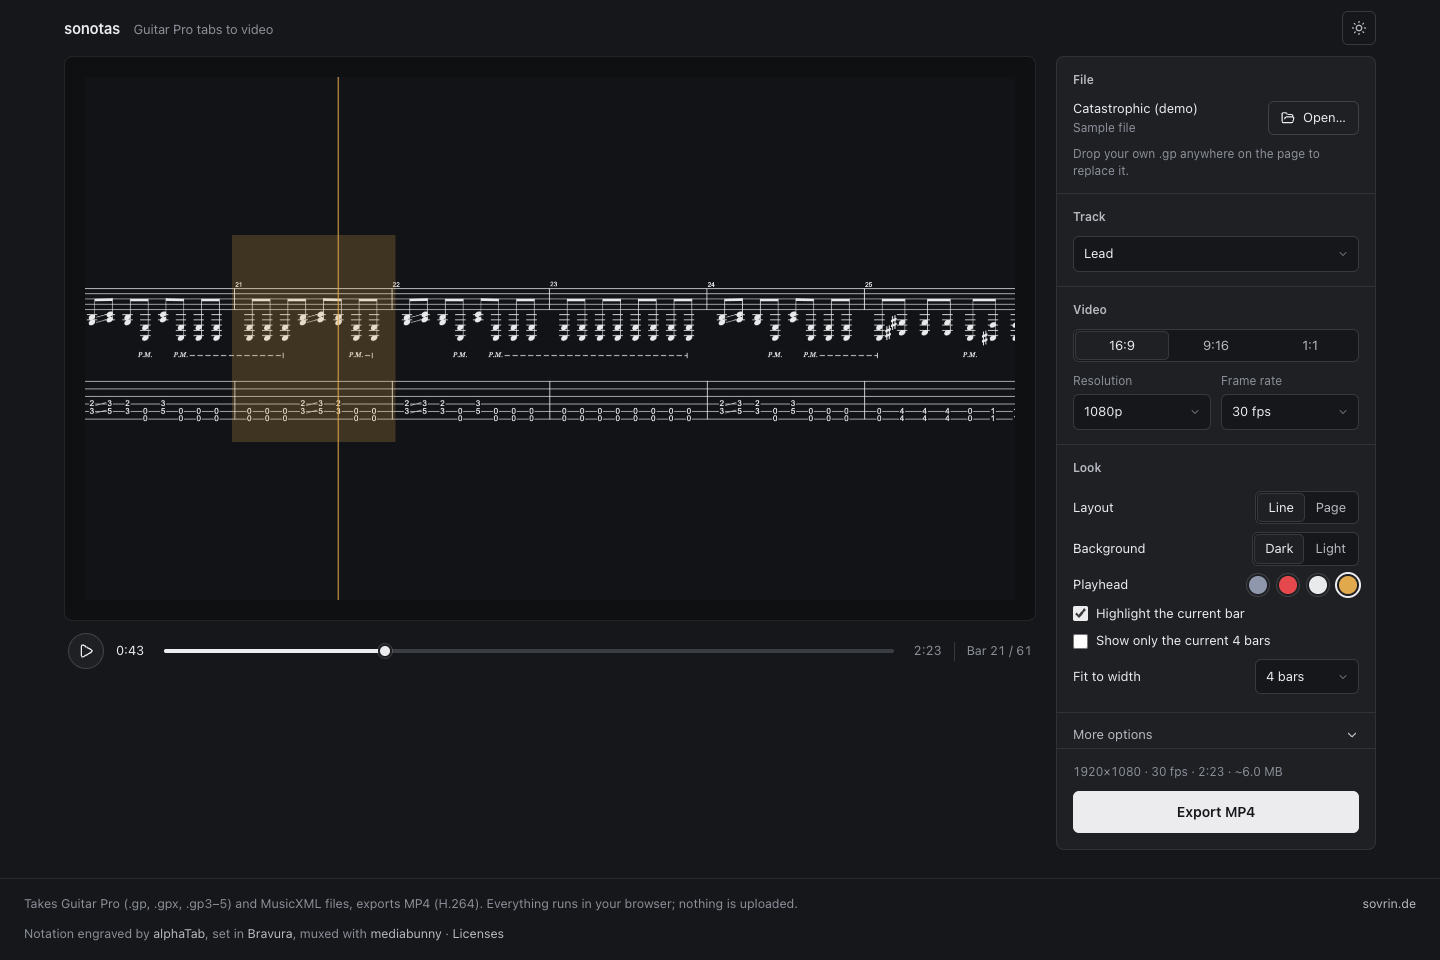
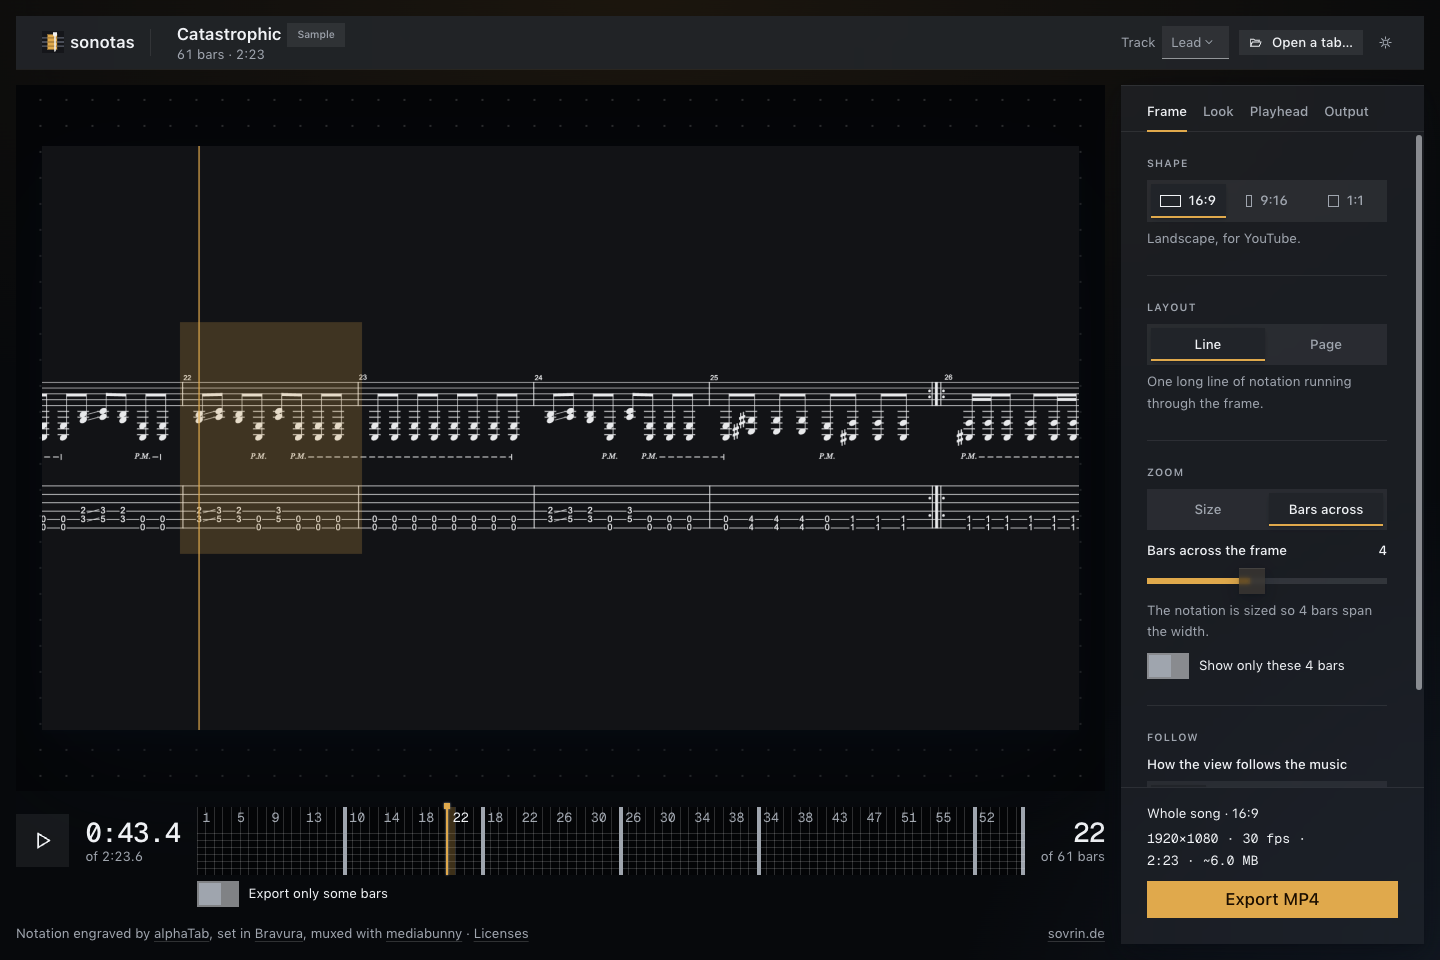
docs: new screenshots, README and notices for the aequitas UI
- retake both README screenshots on the current editor
- README: aequitas instead of Nuxt UI, Look tab, play-order timeline and
  Space / I / O keys
- third-party notices: drop Nuxt UI, add aequitas and Geist

diff --git a/README.md b/README.md
@@ -29,7 +29,9 @@ entirely on your machine, so nothing gets uploaded.
   height and offset. Bar highlight and current-note recolouring.
 - **Extras:** export a range of bars, change the playback speed from 0.25× to 2×, and
   toggle the song title, track name, tempo marking, bar numbers and chord diagrams.
-- **Live preview:** scrub and play the exact frames that end up in the video.
+- **Live preview:** scrub and play the exact frames that end up in the video. The
+  timeline shows the song in play order, repeats included; Space plays and pauses,
+  and I and O set the first and last exported bar at the playhead.
 
 ## Built on alphaTab
 
@@ -41,15 +43,16 @@ moves the playhead. sonotas adds the camera, the styling and the encoder around
 it. alphaTab is licensed under the MPL-2.0; if it is useful to you, star the
 repo or [contribute](https://github.com/CoderLine/alphaTab/blob/develop/CONTRIBUTING.md).
 Exports carry alphaTab's own "rendered by alphaTab" line unless you turn it off
-under *More options*.
+in the *Look* tab.
 
 ## How it works
 
-The app is a [Nuxt](https://nuxt.com) + [Nuxt UI](https://ui.nuxt.com) front end
-over a small, browser-only renderer package:
+The app is a [Nuxt](https://nuxt.com) front end, styled with
+[aequitas](https://github.com/sovrin/aequitas), over a small, browser-only
+renderer package:
 
 ```
-app/                  Nuxt UI: preview stage, transport, settings and export panels
+app/                  Nuxt app: preview stage, timeline, settings tabs and export panel
 packages/renderer/    Guitar Pro → video engine
   score.ts            load and engrave the tab with alphaTab
   timeline.ts         map playback time to bars and beats (tempo changes, repeats)
@@ -113,5 +116,6 @@ fontTools' `ttx` is on your PATH. Use the Docker route for the committed file.
 ## License
 
 sonotas is [MIT](LICENSE) licensed. It ships alphaTab (MPL-2.0), the Bravura
-font (SIL OFL 1.1), mediabunny (MPL-2.0) and Nuxt UI (MIT); their notices are
+font (SIL OFL 1.1), mediabunny (MPL-2.0), aequitas (MIT) and the Geist fonts
+(SIL OFL 1.1); their notices are
 collected in [THIRD_PARTY_NOTICES.md](THIRD_PARTY_NOTICES.md).

diff --git a/THIRD_PARTY_NOTICES.md b/THIRD_PARTY_NOTICES.md
@@ -39,12 +39,30 @@ Muxes the WebCodecs-encoded frames into the exported MP4.
 - License: [Mozilla Public License 2.0](https://github.com/Vanilagy/mediabunny/blob/main/LICENSE)
 - Source: <https://github.com/Vanilagy/mediabunny> · <https://mediabunny.dev>
 
-## Nuxt and Nuxt UI
+## Nuxt
 
-Application framework and component library for the user interface. The
-project was started from a Nuxt UI template, whose copyright line is kept in
-[LICENSE](LICENSE).
+Application framework for the user interface. The project was started from a
+Nuxt UI template, whose copyright line is kept in [LICENSE](LICENSE); Nuxt UI
+itself is no longer used.
 
 - Copyright © Nuxt
-- License: [MIT](https://github.com/nuxt/ui/blob/v4/LICENSE.md)
-- Source: <https://github.com/nuxt/nuxt> · <https://github.com/nuxt/ui>
+- License: [MIT](https://github.com/nuxt/nuxt/blob/main/LICENSE)
+- Source: <https://github.com/nuxt/nuxt>
+
+## aequitas
+
+CSS design language the interface is built on, including its icon set. Vendored
+from its build output into `app/assets/aequitas/`.
+
+- Copyright © Oleg Kamlowski
+- License: [MIT](https://github.com/sovrin/aequitas/blob/main/LICENSE)
+- Source: <https://github.com/sovrin/aequitas>
+
+## Geist
+
+Sans and mono typefaces shipped with aequitas (`app/assets/aequitas/fonts/`),
+used where the system UI font is unavailable.
+
+- Copyright © 2023 Vercel, in collaboration with basement.studio
+- License: [SIL Open Font License 1.1](https://github.com/vercel/geist-font/blob/main/LICENSE.txt)
+- Source: <https://github.com/vercel/geist-font>
